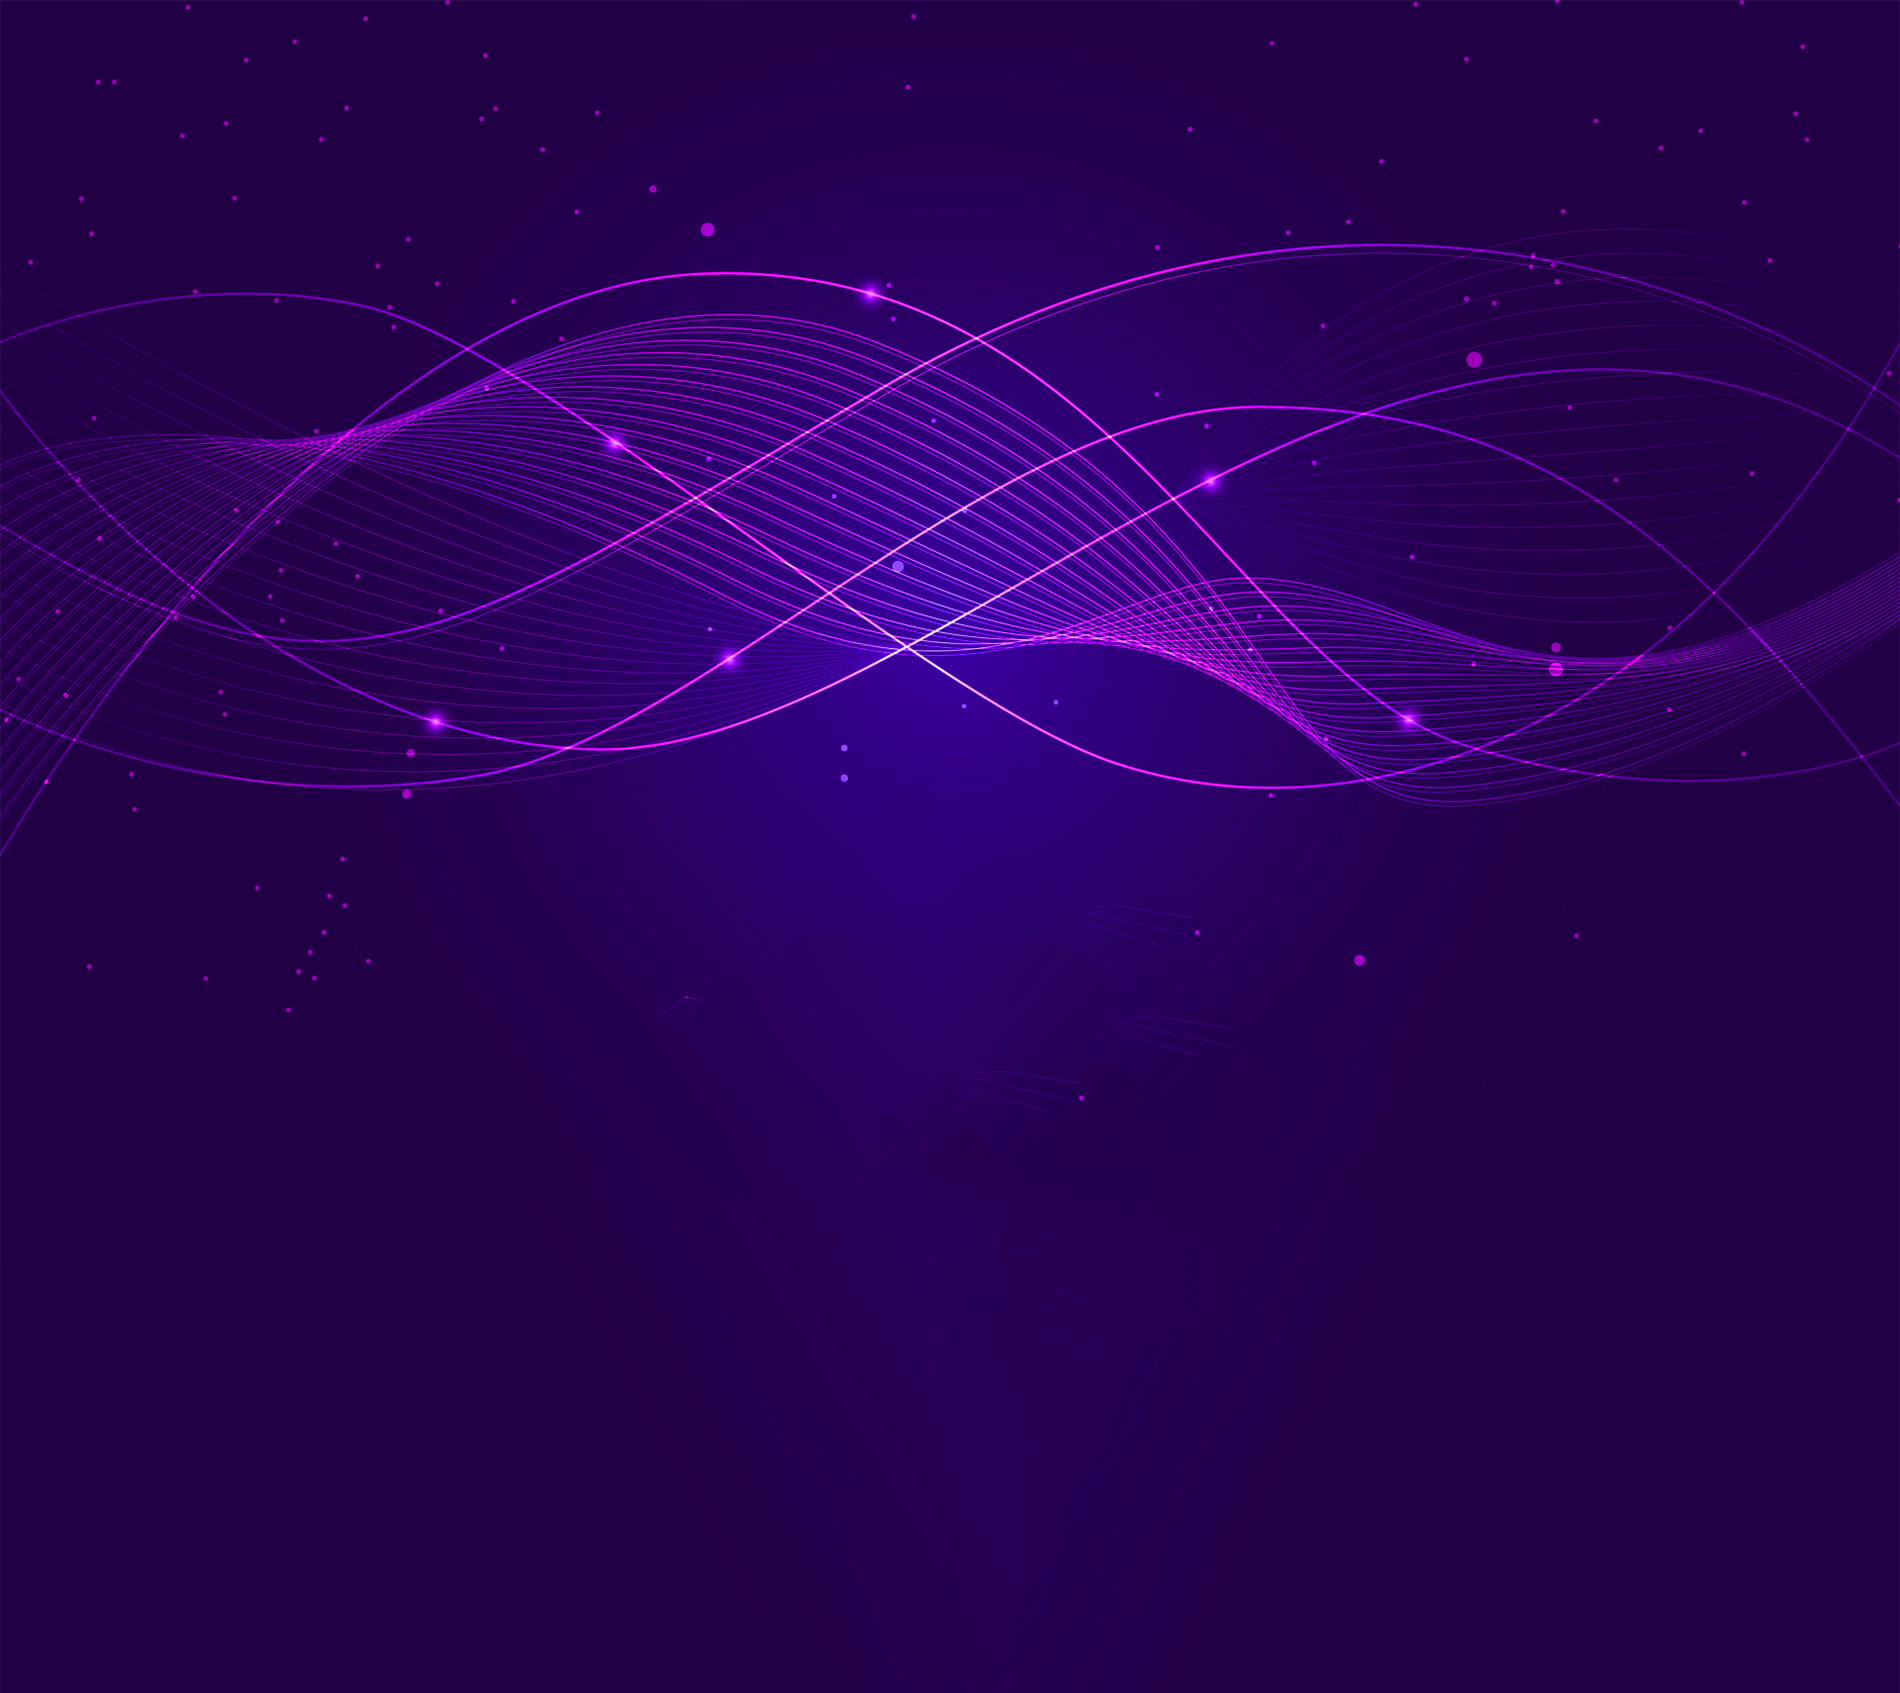
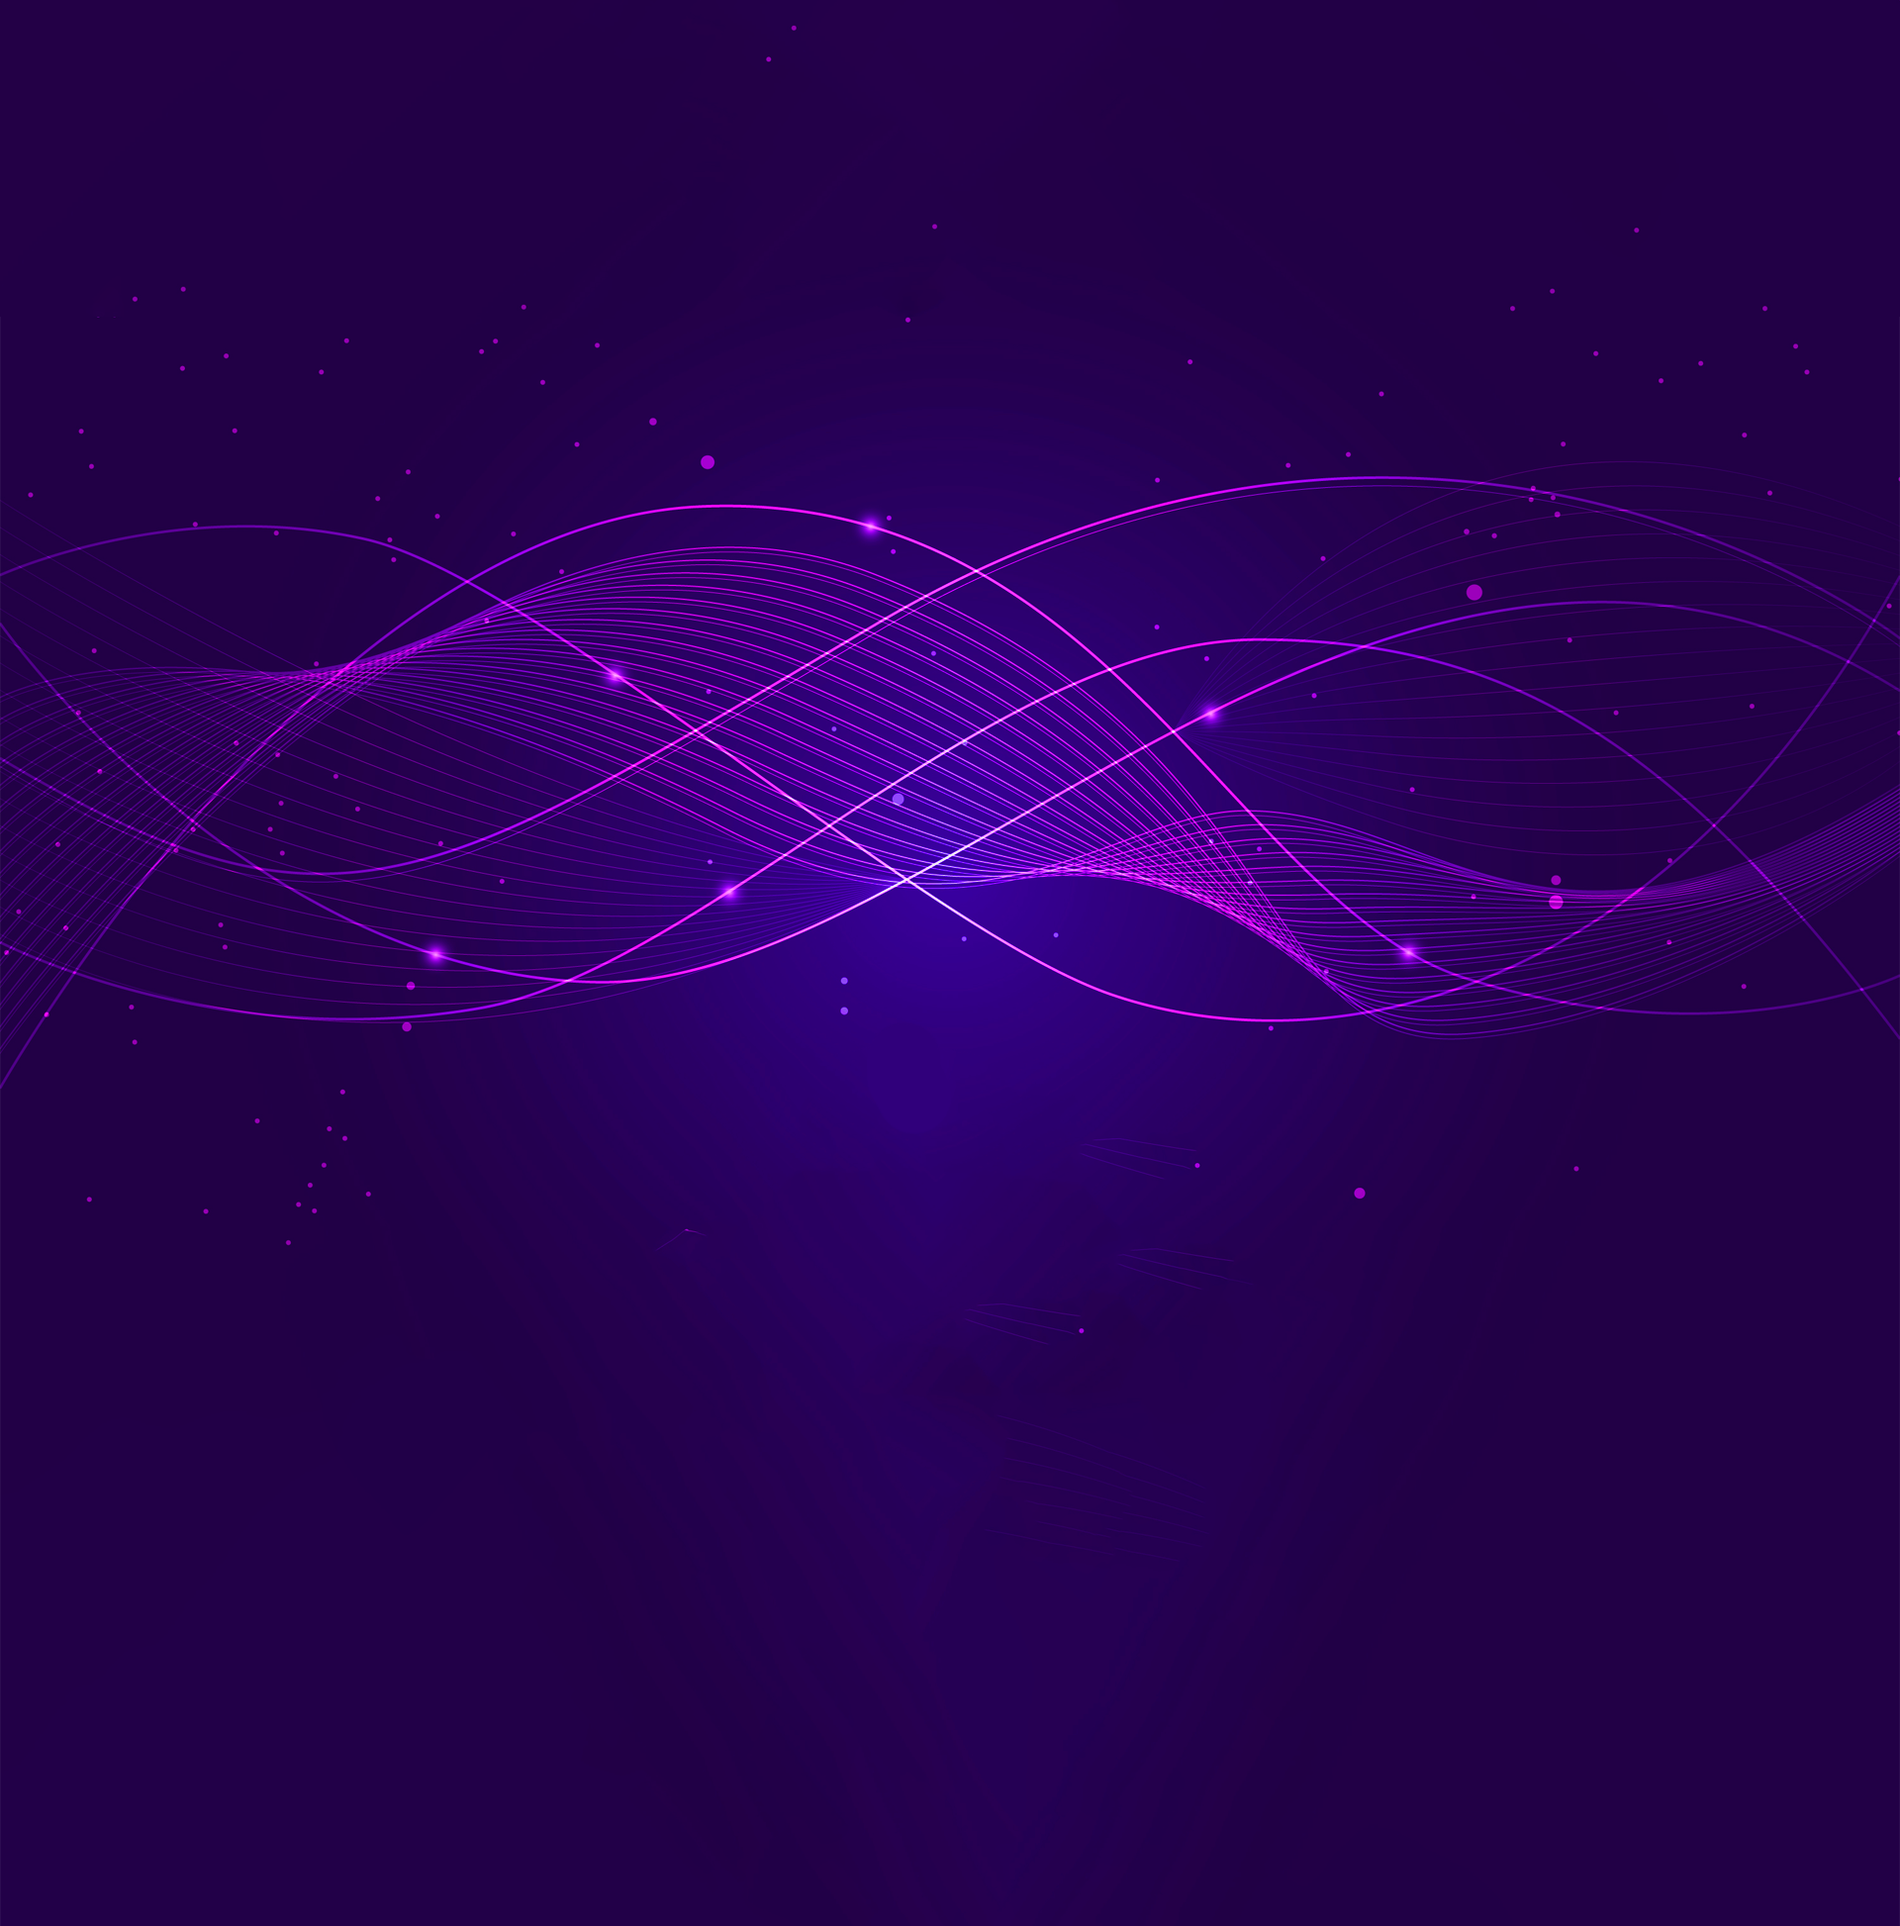
feat(pages): add gradient on background
Added gradient on background

diff --git a/clients/pi_community/pi_community_client.tsx b/clients/pi_community/pi_community_client.tsx
@@ -34,7 +34,11 @@ function PiCommunityClient({
   const pagePadding: MantineSize = isMobile ? 'sm' : 'md';
 
   return (
-    <CustomAppShell padding={0}>
+    <CustomAppShell
+      backgroundHeight={'105%'}
+      imageSrc={['/images/bg_3.png']}
+      padding={0}
+    >
       <Flex
         direction={'column'}
         justify={'flex-start'}
@@ -80,8 +84,9 @@ function PiCommunityClient({
           direction={'column'}
           justify={'center'}
           align={'center'}
+          gap={'xl'}
         >
-          <BackgroundImage
+          {/* <BackgroundImage
             src={'/images/image_3_1.png'}
             style={{
               width: '100%', // Full width
@@ -93,77 +98,51 @@ function PiCommunityClient({
               backgroundSize: 'cover', // Ensures the image covers the entire area
               backgroundPosition: 'center', // Centers the image
             }}
-          >
-            <CommunitySection
-              width={isMobile ? '100%' : '80%'}
-              height={'auto'}
-              bgColor={'#343434'}
-              radius={isMobile ? '' : 'lg'}
-              heading={piMoraData.title}
-              headingColor={'#F4018b'}
-              sectionColor={'#F4018b'}
-              text={piMoraData.description}
-              tabs={piMoraData.tabs}
-              slideSize={isMobile ? '100%' : '100%'}
-            />
-          </BackgroundImage>
-          <BackgroundImage
-            src={'/images/image_3_2.png'}
-            style={{
-              width: '100%', // Full width
-              height: 'auto', // Automatic height (can be set to fixed value)
-              padding: isMobile ? '0px' : '40px', // Adjust padding based on your design
-              display: 'flex', // Allows centering the content
-              justifyContent: 'center', // Center horizontally
-              alignItems: 'center', // Center vertically if needed
-              backgroundSize: 'cover', // Ensures the image covers the entire area
-              backgroundPosition: 'center', // Centers the image
-            }}
-          >
-            <CommunitySection
-              width={isMobile ? '100%' : '80%'}
-              height={'auto'}
-              bgColor={'#343434'}
-              radius={isMobile ? '' : 'lg'}
-              heading={techDemoData.title}
-              headingColor={'#1f68d6'}
-              sectionColor={'#1f68d6'}
-              text={techDemoData.description}
-              tabs={techDemoData.tabs}
-              slideSize={isMobile ? '100%' : '100%'}
-            />
-          </BackgroundImage>
-          <BackgroundImage
-            src={'/images/image_3_3.png'}
-            style={{
-              width: '100%', // Full width
-              height: 'auto', // Automatic height (can be set to fixed value)
-              padding: isMobile ? '0px' : '40px', // Adjust padding based on your design
-              display: 'flex', // Allows centering the content
-              justifyContent: 'center', // Center horizontally
-              alignItems: 'center', // Center vertically if needed
-              backgroundSize: 'cover', // Ensures the image covers the entire area
-              backgroundPosition: 'center', // Centers the image
-            }}
-          >
-            <CommunitySection
-              width={isMobile ? '100%' : '80%'}
-              height={'auto'}
-              bgColor={'#343434'}
-              radius={isMobile ? '' : 'lg'}
-              heading={finalYearData.title}
-              headingColor={'#A61FD6'}
-              sectionColor={'#A61FD6'}
-              text={finalYearData.description}
-              tabs={finalYearData.tabs}
-              slideSize={isMobile ? '100%' : '100%'}
-            />
-          </BackgroundImage>
+          > */}
+          <CommunitySection
+            width={isMobile ? '100%' : '80%'}
+            height={'auto'}
+            bgColor={'#343434'}
+            radius={isMobile ? '' : 'lg'}
+            heading={piMoraData.title}
+            headingColor={'#F4018b'}
+            sectionColor={'#F4018b'}
+            text={piMoraData.description}
+            tabs={piMoraData.tabs}
+            slideSize={isMobile ? '100%' : '100%'}
+          />
+          {/* </BackgroundImage> */}
+
+          <CommunitySection
+            width={isMobile ? '100%' : '80%'}
+            height={'auto'}
+            bgColor={'#343434'}
+            radius={isMobile ? '' : 'lg'}
+            heading={techDemoData.title}
+            headingColor={'#1f68d6'}
+            sectionColor={'#1f68d6'}
+            text={techDemoData.description}
+            tabs={techDemoData.tabs}
+            slideSize={isMobile ? '100%' : '100%'}
+          />
+
+          <CommunitySection
+            width={isMobile ? '100%' : '80%'}
+            height={'auto'}
+            bgColor={'#343434'}
+            radius={isMobile ? '' : 'lg'}
+            heading={finalYearData.title}
+            headingColor={'#A61FD6'}
+            sectionColor={'#A61FD6'}
+            text={finalYearData.description}
+            tabs={finalYearData.tabs}
+            slideSize={isMobile ? '100%' : '100%'}
+          />
 
           <Box
             w={'100%'}
             h={'auto'}
-            bg={'#343434'}
+            bg={'#1e1e1e'}
             p={'xl'}
           >
             <Center>

diff --git a/components/image_grid/image_grid.tsx b/components/image_grid/image_grid.tsx
@@ -3,15 +3,19 @@ import React from 'react';
 
 interface ImageGridProps {
   imageSrc: string[]; // Array of image URLs
-  height: number; // Height of each image
-  width: string | number,
+  height: number | string; // Height of each image
+  width: string | number;
 }
 
 const ImageGrid: React.FC<ImageGridProps> = ({
-  height = 300,
+  height = '100%',
   imageSrc = [],
   width = '100%',
 }) => {
+  const containerHeight =
+    typeof height === 'number'
+      ? imageSrc.length * height
+      : `calc(${imageSrc.length} * ${height})`;
   return (
     <div
       style={{
@@ -19,22 +23,36 @@ const ImageGrid: React.FC<ImageGridProps> = ({
         top: 0,
         left: 0,
         right: 0,
-        height: height * imageSrc.length,
+        height: containerHeight,
         display: 'flex',
         flexDirection: 'column', // Change to ‘row’ if you want a horizontal layout
       }}
     >
       {imageSrc.map((src, index) => (
-        <BackgroundImage
-          key={index} // Use index as key; consider unique identifiers
-          src={src}
-          style={{
-            height: height, // Set the height for each BackgroundImage
-            backgroundSize: 'cover', // Crop the image
-            backgroundPosition: 'top center', // Center the image
-            width: width, // Fill the container’s width
-          }}
-        />
+        <>
+          <BackgroundImage
+            key={index} // Use index as key; consider unique identifiers
+            src={src} //url
+            style={{
+              height: height, // Set the height for each BackgroundImage
+              backgroundSize: 'cover', // Crop the image
+              backgroundPosition: 'top center', // Center the image at the top
+              width: width, // Fill the container’s width
+            }}
+          />
+          <div
+            style={{
+              position: 'absolute',
+              top: 0,
+              left: 0,
+              right: 0,
+              bottom: 0,
+              background:
+                'linear-gradient(to bottom, rgba(255, 255, 255, 0) 0%, rgba(0, 0, 0, 1) 100%)',
+              pointerEvents: 'none', // Ensures the gradient overlay doesn't prevent interactions with the image
+            }}
+          />
+        </>
       ))}
     </div>
   );

diff --git a/clients/challenge/challenge_client.tsx b/clients/challenge/challenge_client.tsx
@@ -16,14 +16,20 @@ import {
   Paper,
   Space,
   Text,
+  MantineSize,
 } from '@mantine/core';
 import ReactPlayer from 'react-player/lazy';
 
 function ChallengeClient() {
   const isMobile = useIsMobile();
+  const pagePadding: MantineSize = isMobile ? 'sm' : 'md';
 
   return (
-    <CustomAppShell>
+    <CustomAppShell
+      backgroundHeight={'105%'}
+      imageSrc={['/images/bg_3.png']}
+      padding={0}
+    >
       <Flex
         direction={'column'}
         justify={'flex-start'}
@@ -31,6 +37,7 @@ function ChallengeClient() {
         gap={'md'}
       >
         <Text
+          px={pagePadding}
           w={'100%'}
           fz={'h1'}
           fw={900}
@@ -43,6 +50,7 @@ function ChallengeClient() {
           direction={isMobile ? 'column' : 'row'}
           align={isMobile ? 'center' : 'flex-start'}
           gap={'xl'}
+          px={pagePadding}
         >
           <Text c={'white'}>
             The SPARK Challenge will reward groups of students that create

diff --git a/components/custom_app_shell/custom_app_shell.tsx b/components/custom_app_shell/custom_app_shell.tsx
@@ -18,14 +18,14 @@ import ImageGrid from '@/components/image_grid/image_grid';
 interface CustomAppShellProps {
   children: ReactNode;
   imageSrc?: string[];
-  height?: number;
+  backgroundHeight?: number | string;
   width?: number | string;
   padding?: MantineSpacing;
 }
 
 function CustomAppShell({
   imageSrc = [],
-  height = 900,
+  backgroundHeight = 900,
   width = '100%',
   padding = 'md',
   children,
@@ -35,7 +35,7 @@ function CustomAppShell({
   const imageGrid = (
     <ImageGrid
       imageSrc={imageSrc}
-      height={height}
+      height={backgroundHeight}
       width={width}
     />
   );

diff --git a/components/carousel_card/carousel_card.tsx b/components/carousel_card/carousel_card.tsx
@@ -73,6 +73,8 @@ function CarouselCard({
               display: 'flex',
               alignItems: isMobile ? 'flex-start' : 'center',
               justifyContent: 'center',
+              borderRadius: '10px',
+              overflow: 'hidden',
             }}
           >
             <div style={{ flex: 1, position: 'relative' }}>

diff --git a/clients/spark_home/spark_home_client.tsx b/clients/spark_home/spark_home_client.tsx
@@ -12,8 +12,9 @@ function SparkHomeClient() {
 
   return (
     <CustomAppShell
-      imageSrc={['/images/image_7.png']}
-      height={isMobile ? 650 : 500}
+      backgroundHeight={'105%'}
+      imageSrc={['/images/bg_2.png']}
+      padding={0}
     >
       <Flex
         direction={'column'}

diff --git a/clients/undergraduate/undergraduate_client.tsx b/clients/undergraduate/undergraduate_client.tsx
@@ -12,7 +12,7 @@ function UndergraduateClient() {
   return (
     <CustomAppShell
       imageSrc={['/images/bg_3.png']}
-      height={1500}
+      backgroundHeight={'105%'}
       padding={0}
     >
       <Flex
